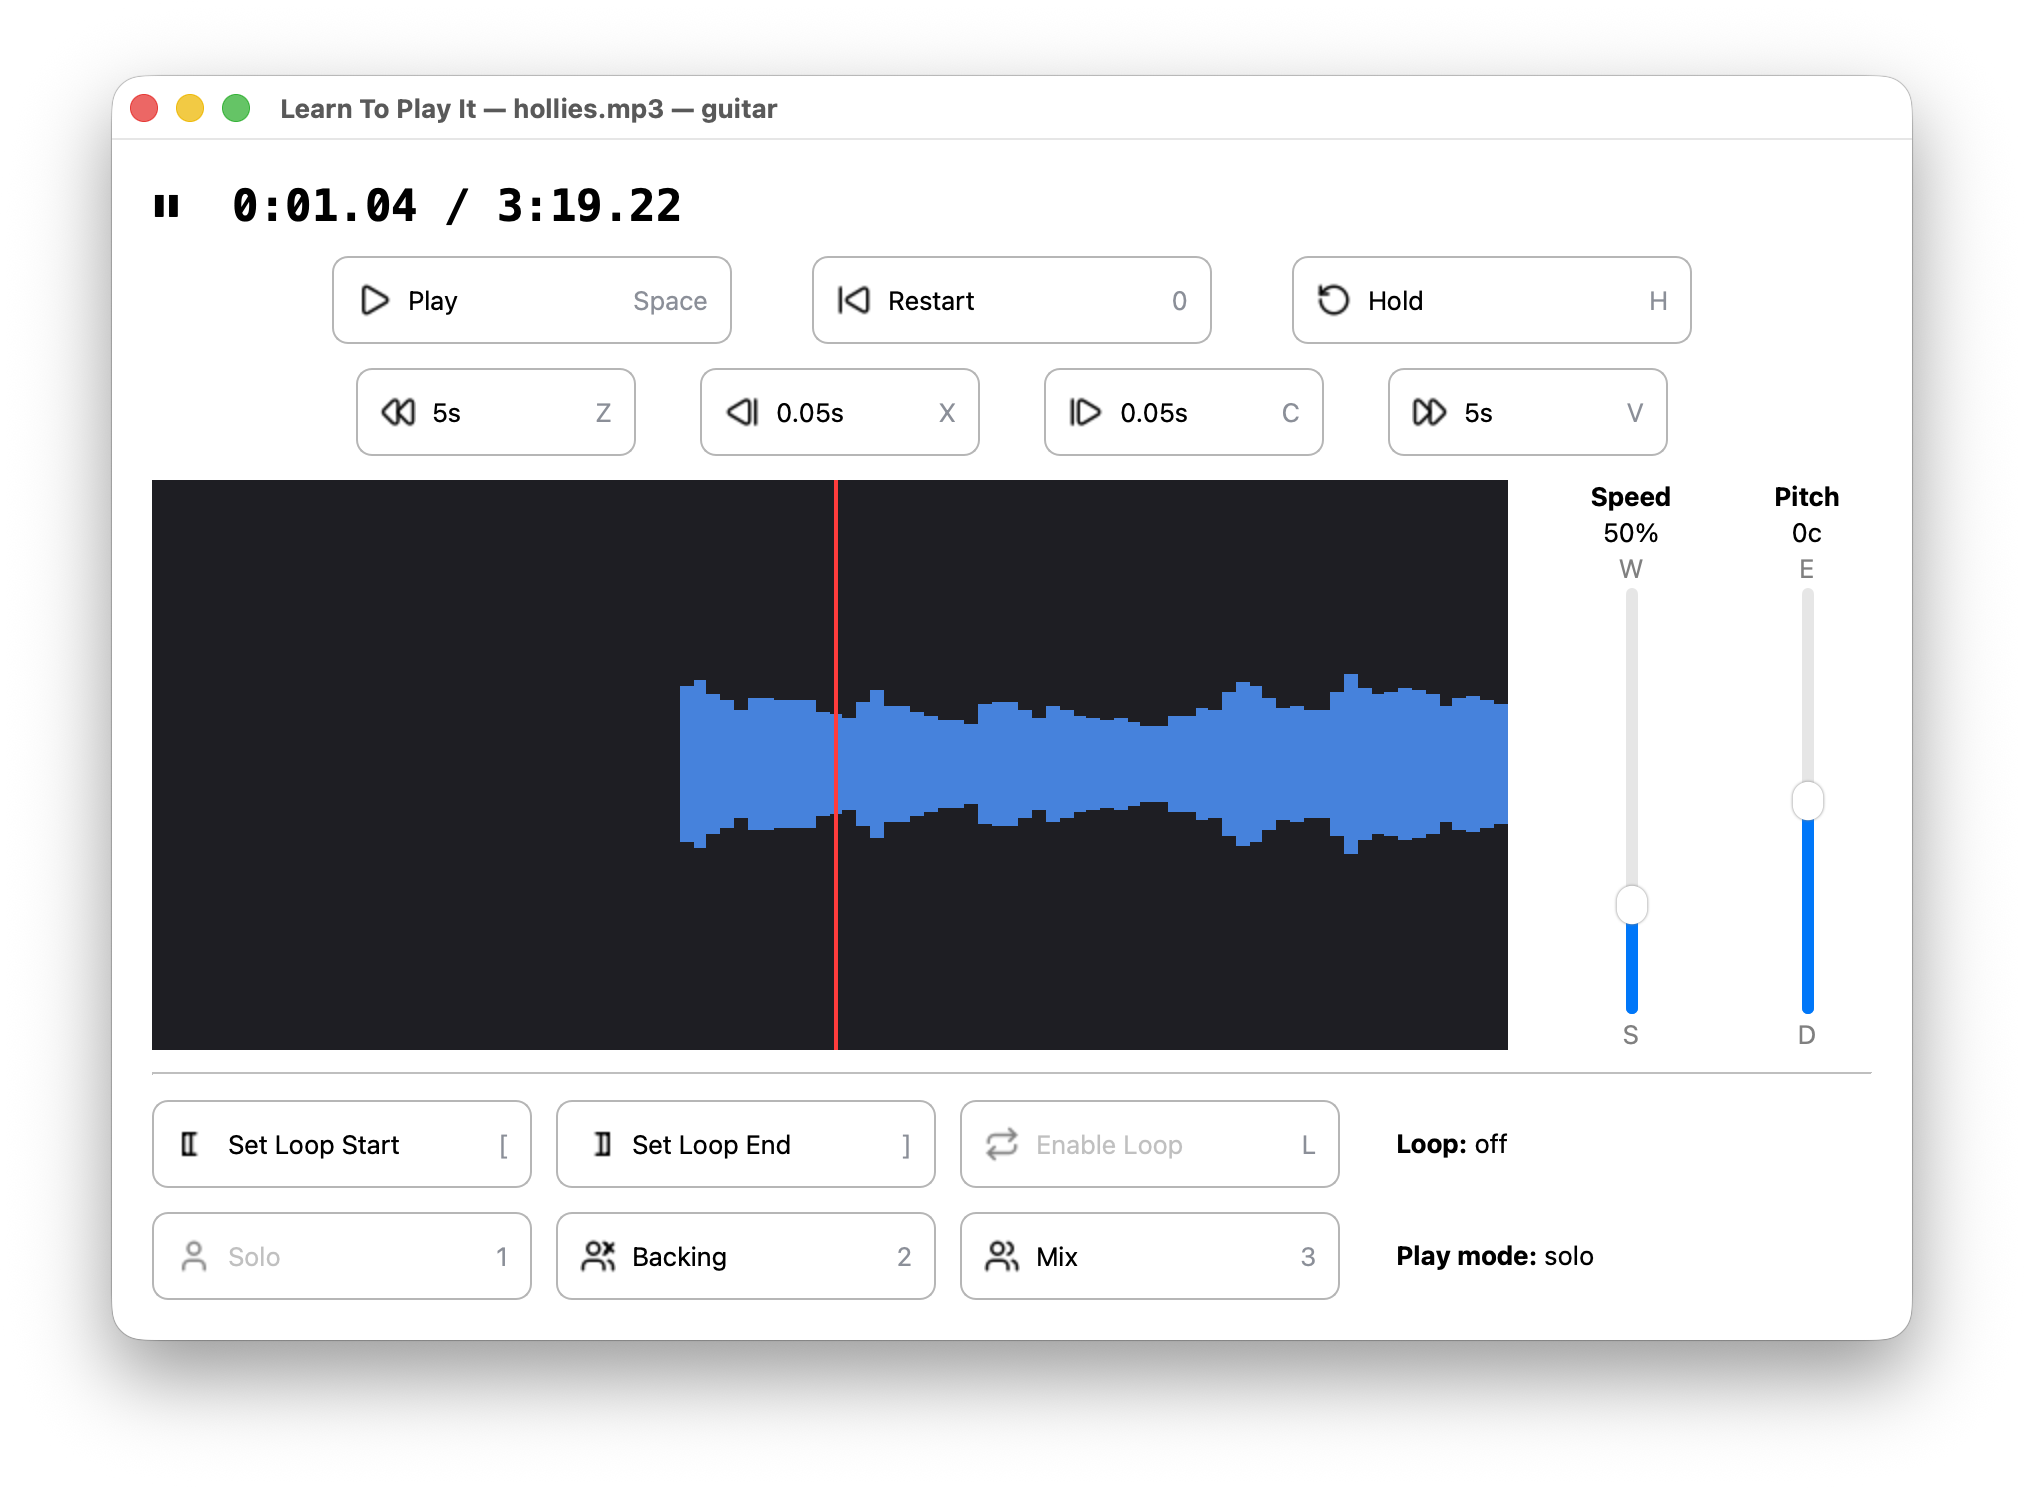
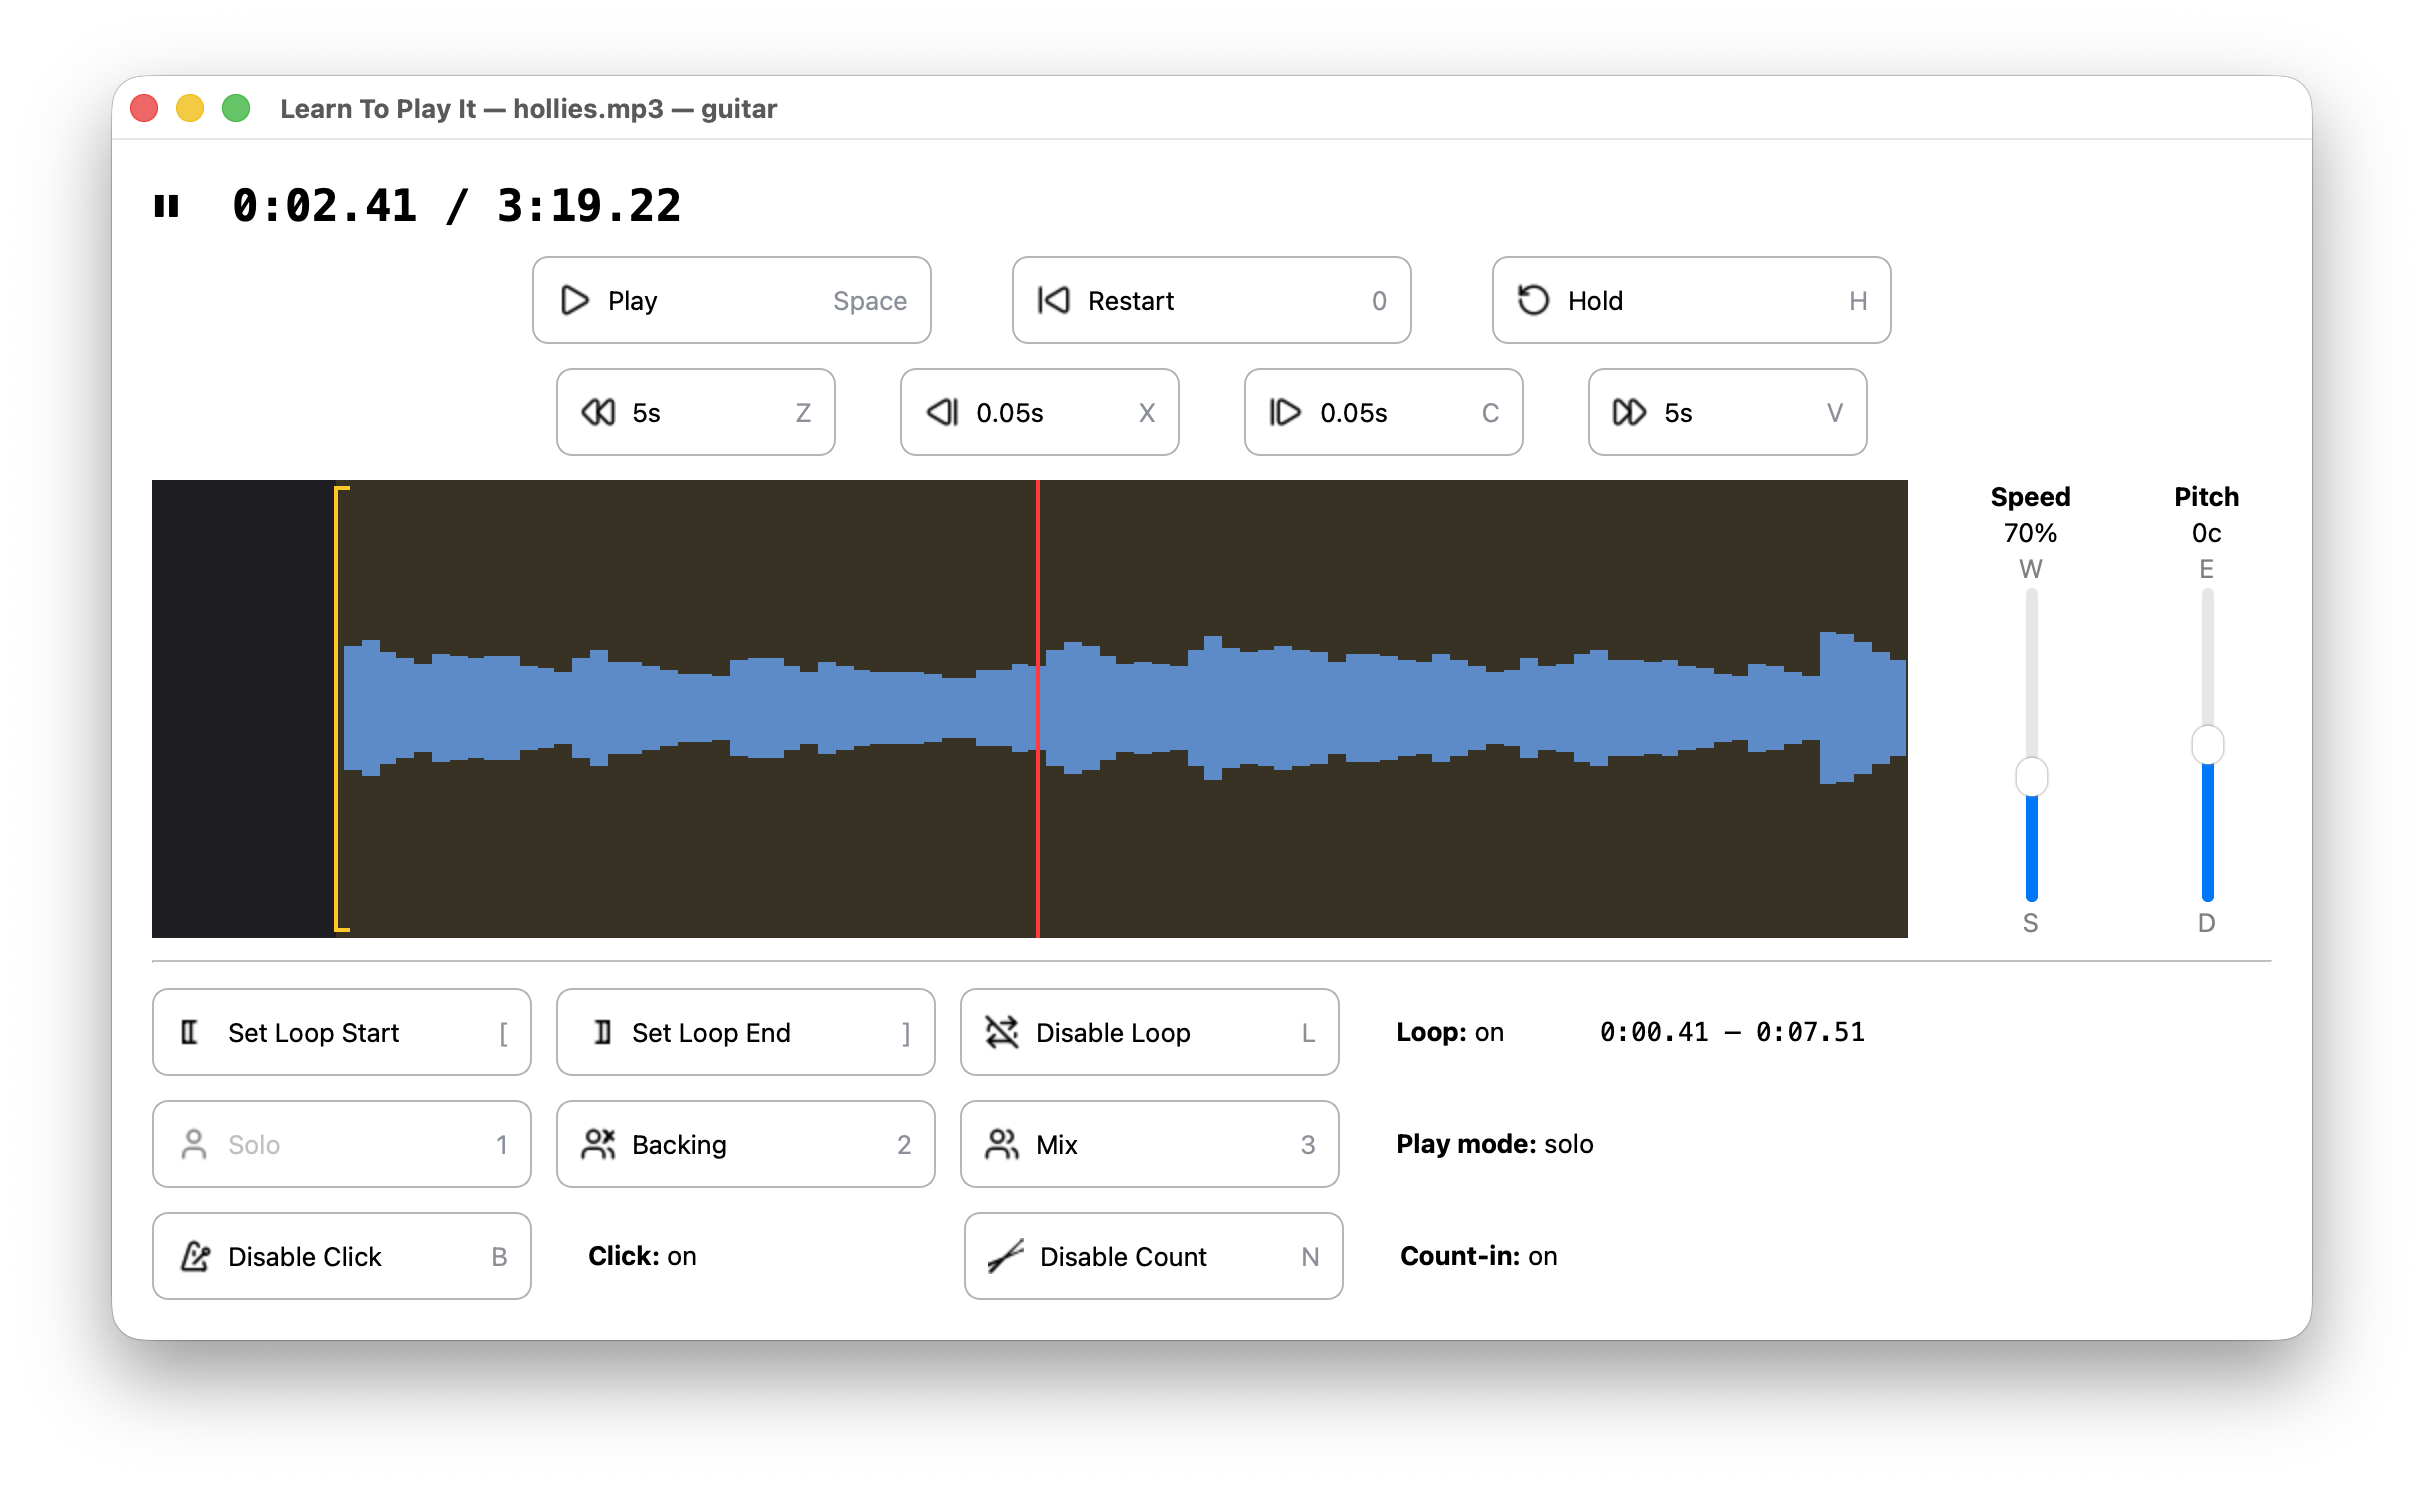
cleanup, docs

diff --git a/learntoplayit/player.py b/learntoplayit/player.py
@@ -101,9 +101,8 @@ class Player:
         self.channels = self.mixes["solo"].shape[1] if self.mixes["solo"].ndim > 1 else 1
         self.song_len = len(self.mixes["solo"])
 
-        self._click_track = self._load_click_track(stems_dir)
+        self._click_track, self._count_in_track, self._count_in_samples = self._load_beats(stems_dir)
         self.click_active = self._click_track is not None
-        self._count_in_track, self._count_in_samples = self._load_count_in(stems_dir)
         self.count_in_enabled = self._count_in_track is not None
         self._mix_peaks = {mode: self._compute_rms_peak(mix) for mode, mix in self.mixes.items()}
 
@@ -124,26 +123,20 @@ class Player:
         self._feeder_paused = False
         self._feeder_thread = None
 
-    def _load_click_track(self, stems_dir):
+    def _load_beats(self, stems_dir):
         from pathlib import Path
-        from .beats import load_beats_from_dir, render_click_track
+        from .beats import load_beats_from_dir, render_click_track, compute_count_in
 
         beats_data = load_beats_from_dir(Path(stems_dir))
         if beats_data is None:
-            return None
-        return render_click_track(beats_data, self.song_len, self.sr, self.channels)
+            return None, None, 0
 
-    def _load_count_in(self, stems_dir):
-        from pathlib import Path
-        from .beats import load_beats_from_dir, compute_count_in
+        click_track = render_click_track(beats_data, self.song_len, self.sr, self.channels)
 
-        beats_data = load_beats_from_dir(Path(stems_dir))
-        if beats_data is None:
-            return None, 0
-        result = compute_count_in(beats_data, self.sr, self.channels)
-        if result is None:
-            return None, 0
-        return result
+        ci_result = compute_count_in(beats_data, self.sr, self.channels)
+        if ci_result is None:
+            return click_track, None, 0
+        return click_track, ci_result[0], ci_result[1]
 
     def _compute_rms_peak(self, mix):
         bin_samples = int(NUDGE_SECONDS * self.sr)
@@ -498,9 +491,3 @@ class Player:
             self._stream.close()
 
 
-def play_interactive(stems_dir, part, initial_mode="solo", initial_speed=0.5, initial_cents=0.0, device=None):
-    from .display import TerminalDisplay
-
-    player = Player(stems_dir, part, initial_mode, initial_speed, initial_cents, device=device)
-    display = TerminalDisplay(player)
-    display.run()

diff --git a/learntoplayit/beats.py b/learntoplayit/beats.py
@@ -36,6 +36,16 @@ def load_beats_from_dir(stems_dir: Path) -> dict | None:
 COUNTIN_WARMUP = 0.1
 
 
+def _make_clicks(sr: int) -> tuple[np.ndarray, np.ndarray, int]:
+    """Synthesise downbeat and beat click waveforms. Returns (downbeat, beat, click_samples)."""
+    click_samples = int(CLICK_DURATION * sr)
+    t = np.arange(click_samples) / sr
+    envelope = np.exp(-t * 40)
+    downbeat = (np.sin(2 * np.pi * DOWNBEAT_FREQ * t) * envelope * CLICK_VOLUME).astype(np.float32)
+    beat = (np.sin(2 * np.pi * BEAT_FREQ * t) * envelope * CLICK_VOLUME).astype(np.float32)
+    return downbeat, beat, click_samples
+
+
 def compute_count_in(beats_data: dict, sr: int, channels: int) -> tuple[np.ndarray, int] | None:
     """Compute a count-in click track leading into the first downbeat.
 
@@ -57,11 +67,7 @@ def compute_count_in(beats_data: dict, sr: int, channels: int) -> tuple[np.ndarr
 
     count_in_times = [first_downbeat - (n_beats - i) * beat_interval for i in range(n_beats)]
 
-    click_samples = int(CLICK_DURATION * sr)
-    t = np.arange(click_samples) / sr
-    envelope = np.exp(-t * 40)
-    downbeat_click = (np.sin(2 * np.pi * DOWNBEAT_FREQ * t) * envelope * CLICK_VOLUME).astype(np.float32)
-    beat_click = (np.sin(2 * np.pi * BEAT_FREQ * t) * envelope * CLICK_VOLUME).astype(np.float32)
+    downbeat_click, beat_click, click_samples = _make_clicks(sr)
 
     warmup_samples = int(COUNTIN_WARMUP * sr)
     count_in_samples = int(abs(count_in_times[0]) * sr) + warmup_samples
@@ -85,12 +91,7 @@ def compute_count_in(beats_data: dict, sr: int, channels: int) -> tuple[np.ndarr
 
 def render_click_track(beats_data: dict, song_len: int, sr: int, channels: int) -> np.ndarray:
     """Render a click track as a numpy array matching song dimensions."""
-    click_samples = int(CLICK_DURATION * sr)
-    t = np.arange(click_samples) / sr
-    envelope = np.exp(-t * 40)
-
-    downbeat_click = (np.sin(2 * np.pi * DOWNBEAT_FREQ * t) * envelope * CLICK_VOLUME).astype(np.float32)
-    beat_click = (np.sin(2 * np.pi * BEAT_FREQ * t) * envelope * CLICK_VOLUME).astype(np.float32)
+    downbeat_click, beat_click, click_samples = _make_clicks(sr)
 
     downbeat_samples = {int(db * sr) for db in beats_data["downbeats"]}
     track = np.zeros((song_len, channels), dtype=np.float32)

diff --git a/README.md b/README.md
@@ -96,6 +96,8 @@ Opens an interactive playback session with the bass part isolated, starting at 5
 | `[`/`]` | Set loop start / end                  |
 | `L`     | Toggle loop on/off                    |
 | `H`     | Hold — freeze last 200ms and loop it |
+| `B`     | Toggle click track (metronome)       |
+| `N`     | Toggle count-in                       |
 | `1`/`2`/`3` | Mode: solo / backing / mix        |
 | `0`     | Restart (or loop start if looping)    |
 | `Q`     | Quit                                  |
@@ -119,10 +121,10 @@ These keys follow a visual layout, shown below:
   |     |speed|pitch|     |     |hold |     |     |on / |     |     |     |
   |     |down |down |     |     |note |     |     |off  |     |     |     |
   +-----+-----+-----+-----+-----+-----+-----+-----+-----+-----+-----+-----+
-  |  Z  |  X  |  C  |  V  |     |     |     |     |     |     |     |     |
+  |  Z  |  X  |  C  |  V  |  B  |  N  |     |     |     |     |     |     |
   |skip |nudge|nudge|skip |     |     |     |     |     |     |     |     |
-  |back |back | fwd | fwd |     |     |     |     |     |     |     |     |
-  | <<  |  <  |  >  | >>  |     |     |     |     |     |     |     |     |
+  |back |back | fwd | fwd |click|count|     |     |     |     |     |     |
+  | <<  |  <  |  >  | >>  |track| in  |     |     |     |     |     |     |
   +-----+-----+-----+-----+-----+-----+-----+-----+-----+-----+-----+-----+
 
         SPACE = play/pause    0 = restart    1/2/3 = solo/backing/mix
@@ -131,20 +133,19 @@ These keys follow a visual layout, shown below:
 
 A waveform is rendered when playback is paused, allowing precise control of loop start and end points:
 ```
-Playing: guitar (solo)
 Controls: SPACE=play/pause  W/S=speed  E/D=pitch  Z/X/C/V=seek  H=hold
-          [/]=loop start/end  L=loop  1/2/3=solo/backing/mix  0=restart  Q=quit
+          [/]=loop start/end  L=loop  B=click  N=count-in  1/2/3=solo/backing/mix  0=restart  Q=quit
 
-  ⏸ 0:13.31 / 3:19.22  |  speed: 50%  |  pitch: 0c  |  loop: OFF 0:11.70-0:14.41  |  mode: solo  |  part: guitar
-
-                                                                                                                                ▆
-                                                                                                                                █
-                                                                                                 ▇        ▇       ▃        ▅    █▁
-                                                     ▁            ▁                              █        █       █▁       █   ▅██▄▁     ▃  ▁
-     ▁   ▁ ▁ ▁▂▂ ▁▁   ▁▁▁ ▅▁▁      ▁   ▆▃▁           █▁           █▂       ▂▂                    █       ▇█       ██       █▄  █████▁   ▂█▅▁█
-  ▄▃▆█▇▇▆█▇█▅███▇██▆▅▃███▇███▅▃▅▅▃▁█▅▅▄███▇▅▅▂▃▂▄▆▃▃▇██▅▃▃▃▃▁▂▅▂▁▁██▇▄▄▃▁▁▁██▇▆▆       ▁ ▁      ▄█▇      ██▆▁     ██▃      ██▆▂██████▅▅▃█████
-  ██████████████████████████████████████████████████████████████████████████████▆▆▇▇▇▇▇█▇█▇▆▅▄▂▂███▇▅▃▃▂▁████▅▄▃▃▂███▇▆▄▃▂▂██████████████████
-                                      [                                ↑                     ]
+  ⏸ 0:03.88 / 3:19.22  |  speed: 70%  |  pitch: 0c  |  loop: ON 0:00.47-0:07.54  |  click: ON  |  count-in: ON  |  mode: mix  |  part: guitar   
+                                                                                                                                ▂               
+                                                                                                                                █               
+                                                                                                                                █       ▆▂      
+                                                                                                                                █▂      ██▂     
+                                                                                                                                ██▂     ███▂▁▁  
+                                                                                                                                ███▆▆▁▁▂██████  
+    ▃▄▂▁ ▁▁▁▁▁   ▁▂▁▁     ▁▁▁  ▁          ▁ ▂▃▃▁▁▁  ▂▄▂▂▂▃▂▁▁▁▁▁▁▁▁▁   ▁  ▁▂▁▁▁▁    ▁   ▅▅▃▂▁▁   ▁▁  ▁▃▁  ▁   ▁    ▄▃▁▁▁    ▁▁▁▇██████████████  
+  ▁▁████▇█████▇▇▆████▇▆▆▆▅███▇▆█▇▆▆▆▆▆▅▅▆▆█▇██████▇▇████████████████▇▆▇█▇▇██████▇▇▆▅█▇▆▅██████▇▆▇██▆▇███▇▆█▇▇▆█▇▆▅▅█████▇▇▇▇██████████████████  
+    [                                                                   ↑                                                                       
 ```
 
 **Modes** -- chosen using number keys 1 (solo), 2 (backing), and 3(mix):
@@ -170,6 +171,20 @@ ltpi parts song.mp3
 ```
 
 Shows which stems are available after separation.
+
+### Detect beats
+
+```bash
+ltpi detect-beat song.mp3
+```
+
+Runs beat and downbeat detection on the audio file. This is done automatically when you start practicing, but you can run it manually to inspect the results. The detected tempo (BPM) and time signature are printed, and the data is cached alongside the stems.
+
+Use `--from` to run detection on a specific stem instead of the full mix (requires stems to be separated first):
+
+```bash
+ltpi detect-beat song.mp3 --from drums
+```
 
 ### Delete cached stems
 
@@ -205,6 +220,7 @@ Use `--stems-dir` to store stems in a custom location (default: `./stems`).
 ## How it works
 
 - **Source separation**: [Demucs](https://github.com/adefossez/demucs) (Meta Research) splits audio into six stems: vocals, drums, bass, guitar, piano, and other
+- **Beat detection**: [beat_this](https://github.com/CPJKU/beat_this) (CPJKU, ISMIR 2024) detects beat and downbeat positions, providing a click track and count-in for practice
 - **Time-stretching & pitch-shifting**: [Rubber Band](https://breakfastquay.com/rubberband/) (via [pylibrb](https://github.com/pawel-glomski/pylibrb)) processes audio in real-time — speed and pitch changes are instant with no playback pause
 - **Playback**: [sounddevice](https://python-sounddevice.readthedocs.io/) provides low-latency audio output
 
@@ -233,5 +249,6 @@ ltpi practice song.mp3 guitar
 
 ## Possible future directions
 
-- MIDI / guitar tab transcription from isolated parts
+- MIDI / guitar tab transcription from isolated stems
+- Adjustable count-in beat count (for non-4/4 time signatures)
 - Standalone macOS app bundle
